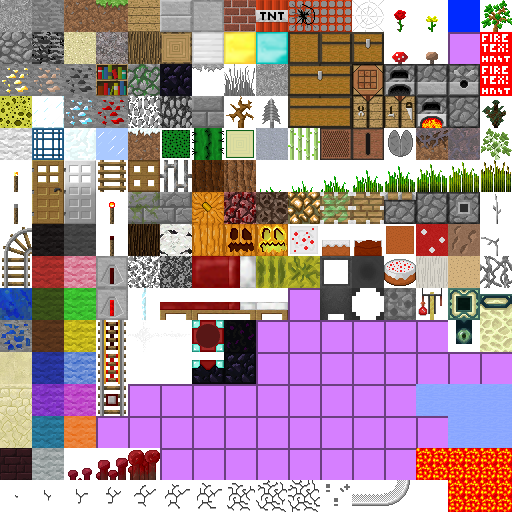
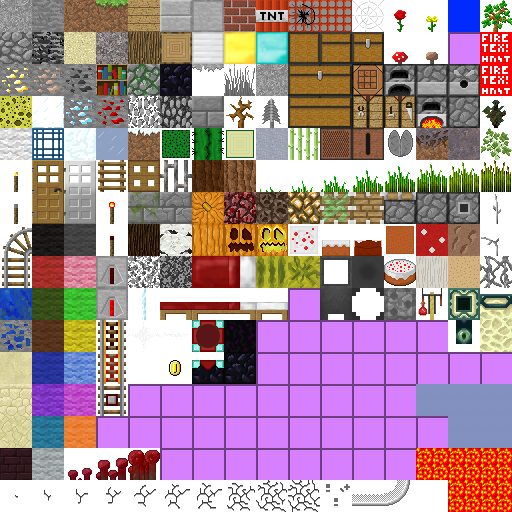
se añade la imagen de moneda a la hoja de sprites, y se unican las monedas en los mapas de los 2 niveles

Changed region(s): [[0.8125, 0.75, 1.0, 0.875], [0.3125, 0.6875, 0.375, 0.75], [0.1875, 0.25, 0.25, 0.3125]]

diff --git a/proyecto/main.py b/proyecto/main.py
@@ -113,7 +113,9 @@ def main():
 					corrimientoy += 15
 				elif event.key == pygame.K_RIGHT:
 					corrimientoy -= 15
-					mapa = cargar_mapa("mapa1.ini","nivel2")
+					#carga el nivel 2
+					#mapa = cargar_mapa("mapa1.ini","nivel2")
+					mapa = cargar_mapa("mapa1.ini","nivel")
 
 ###---ejecucion del main
 if __name__ == "__main__":
